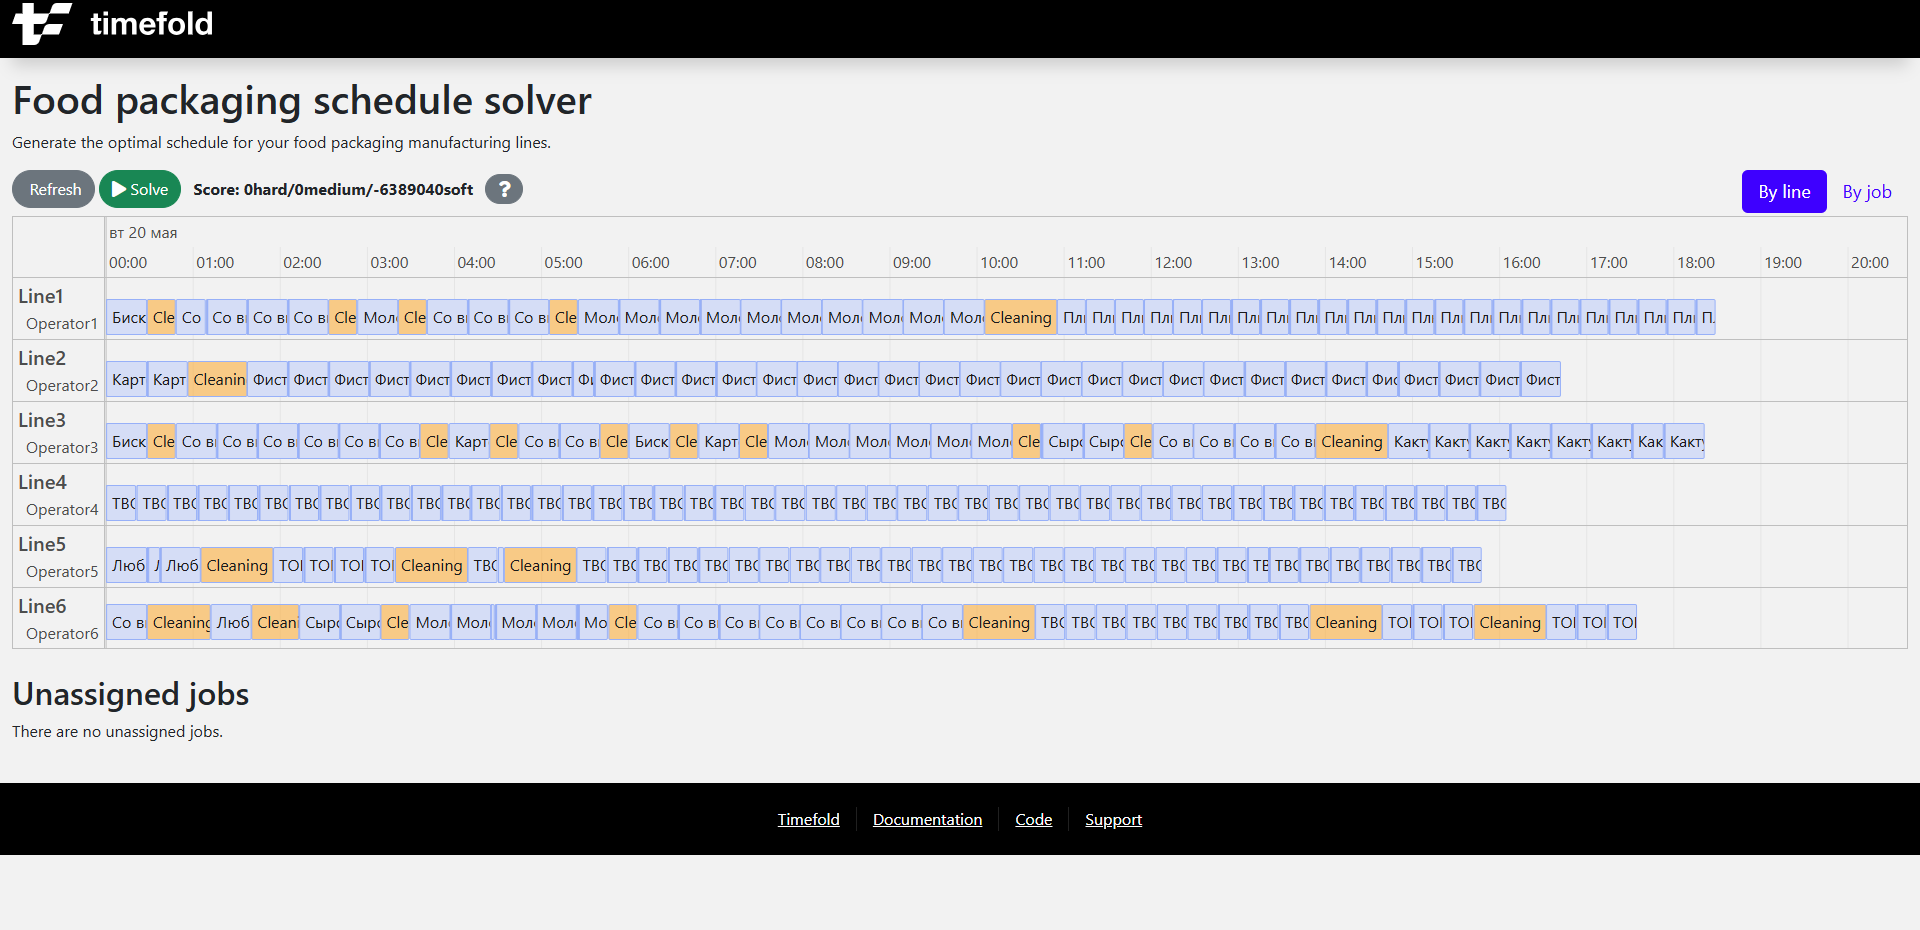
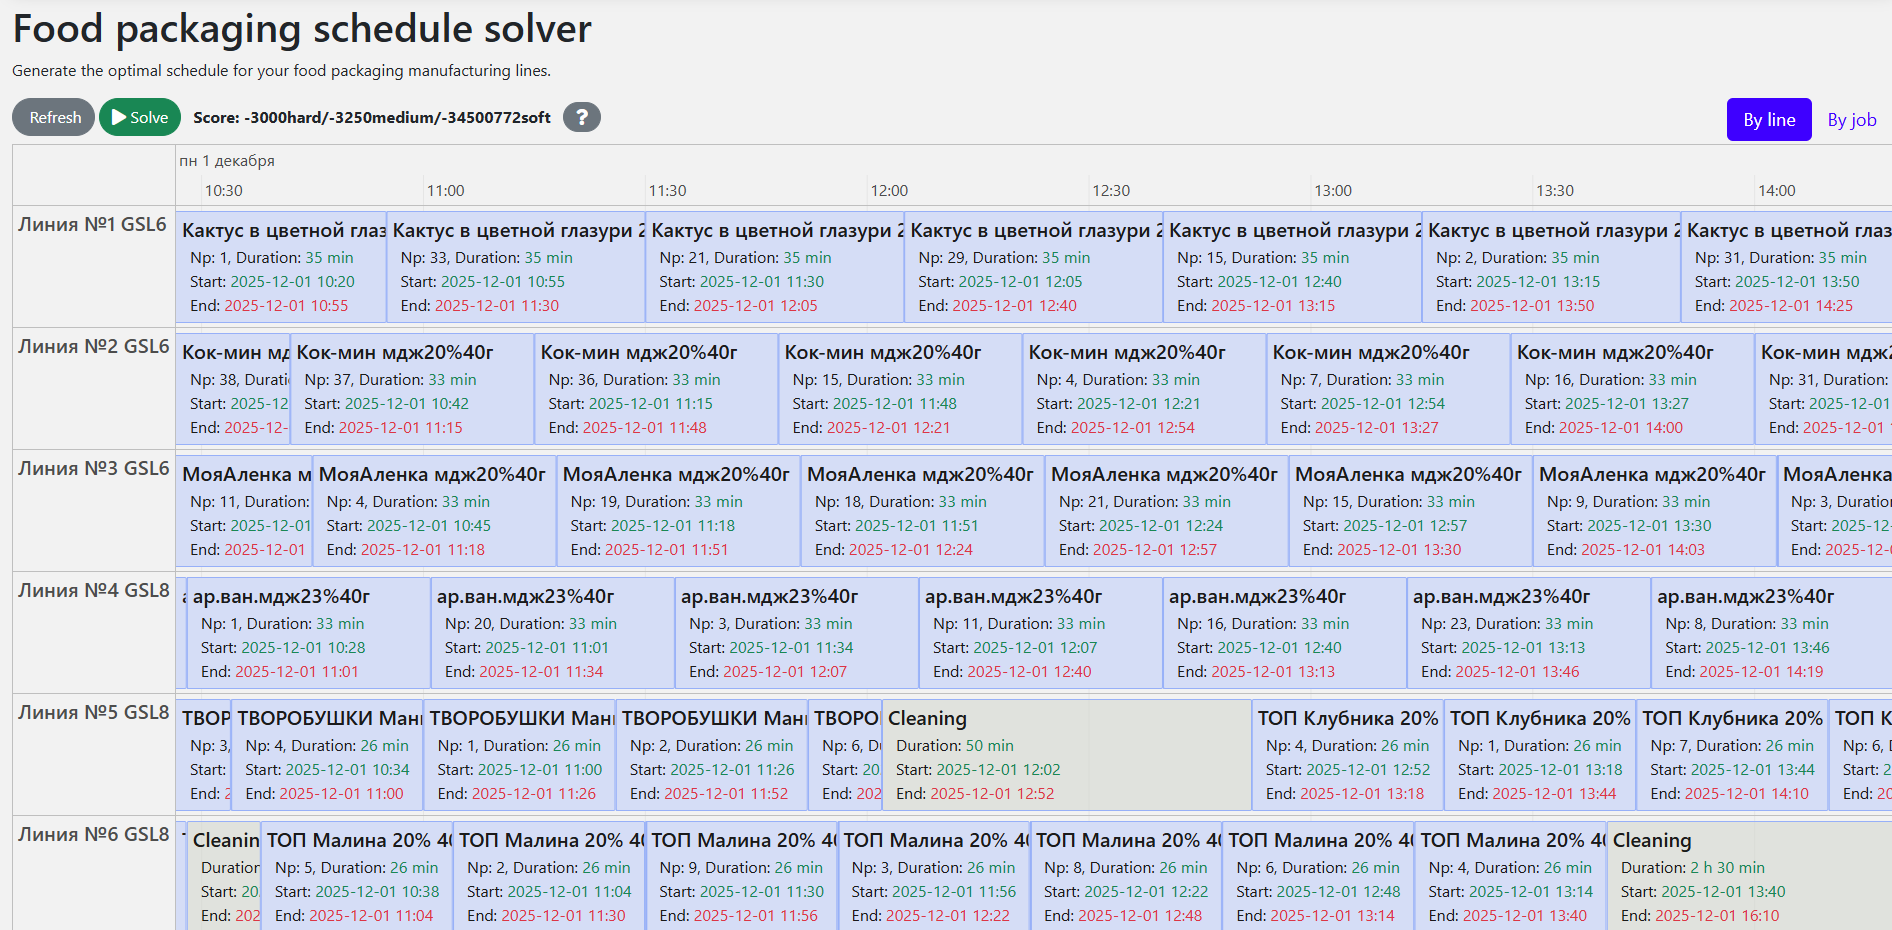
Updated info about project building

diff --git a/README.md b/README.md
@@ -1,0 +1,166 @@
+# Food Packaging (Java, Quarkus, Maven)
+
+Schedule food packaging orders to manufacturing lines, to minimize downtime and fulfill all orders in time.
+
+![Food packaging screenshot](./food-packaging-screenshot.png)
+
+- [Run the application](#run-the-application)
+- [Configuration](#configuration)
+- [REST API](#rest-api)
+- [Run the packaged application](#run-the-packaged-application)
+- [Run the application in a container](#run-the-application-in-a-container)
+- [Run it native](#run-it-native)
+
+## Prerequisites
+
+Install Java **21** and Maven, for example with [Sdkman](https://sdkman.io):
+
+```shell
+sdk install java 21.0.0-tem
+sdk install maven
+```
+
+## Run the application
+
+Clone the repo and navigate to this directory:
+
+```shell
+git clone git@github.com:NogameNo-life/food-packaging-quarkus.git
+cd food-packaging-quarkus
+```
+
+Start the application with Maven:
+
+```shell
+mvn quarkus:dev
+```
+
+Visit `http://localhost:8080` in your browser.
+
+Click on the **Solve** button.
+
+Then try _live coding_:
+
+- Make some changes in the source code.
+- Refresh your browser (F5).
+
+Notice that those changes are immediately in effect.
+
+## Configuration
+
+This app connects to **MS SQL Server**. Quarkus devservices are disabled, so you must provide DB connection settings via environment variables (see `src/main/resources/application.properties`).
+
+### Profiles
+
+- **local**: `-Dquarkus.profile=local` (default port 8080)
+- **dev**: `-Dquarkus.profile=dev` (default port 8083)
+- **prod/brzprod/baranprod**: default port 8081 (see properties)
+
+### Required environment variables
+
+At minimum you need:
+
+- **DB_USERNAME**: DB login
+- **DB_PASSWORD**: DB password
+- **DB_URL_LOCAL / DB_URL_DEV / DB_URL_PROD / ...**: used by code that reads `db.url`
+- **DB_JDBC_URL_LOCAL / DB_JDBC_URL_DEV / DB_JDBC_URL_PROD / ...**: JDBC URL for Quarkus datasource
+- **CORS_ORIGIN_DEV / CORS_ORIGIN_PROD / ...**: allowed origin(s) for browser clients (profile-specific)
+
+Example (local profile):
+
+```shell
+export DB_USERNAME="..."
+export DB_PASSWORD="..."
+export DB_URL_LOCAL="..."
+export DB_JDBC_URL_LOCAL="jdbc:sqlserver://HOST:1433;databaseName=DB;encrypt=true;trustServerCertificate=true"
+
+mvn quarkus:dev -Dquarkus.profile=local
+```
+
+## REST API
+
+Base path: `/schedule`
+
+### Session
+
+Most endpoints use the request header **`X-Session-Id`** to isolate schedules per user/session.
+
+### Common endpoints
+
+- **GET `/schedule`**: get current schedule for session
+- **POST `/schedule/init`**: build/load schedule for a start date (request: `LoadRequest`)
+- **POST `/schedule/solve`**: start solver
+- **POST `/schedule/stopSolving`**: stop solver
+- **POST `/schedule/maintenance`**: add/update/remove maintenance job (request: `MaintenanceRequest`)
+- **POST `/schedule/moveJobs`**: move jobs (request: `MoveJobsRequest`)
+- **POST `/schedule/pin`**: pin/unpin jobs (request: `PinRequest`)
+- **POST `/schedule/save`**: persist the current plan to DB
+
+Example (maintenance add):
+
+```shell
+curl -X POST "http://localhost:8080/schedule/maintenance" \
+  -H "Content-Type: application/json" \
+  -H "X-Session-Id: demo" \
+  -d '{"lineId":"170610000000","name":"Maintenance","insertIndex":0,"durationMinutes":30}'
+```
+
+## Run the packaged application
+
+When you're done iterating in `quarkus:dev` mode, package the application to run as a conventional jar file.
+
+Compile it with Maven:
+
+```shell
+mvn package
+```
+
+Run it:
+
+```shell
+java -jar ./target/quarkus-app/quarkus-run.jar
+```
+
+To run it on port 8081 instead, add `-Dquarkus.http.port=8081`.
+
+Visit `http://localhost:8080` in your browser and click on the **Solve** button.
+
+## Run the application in a container
+
+Build a container image:
+
+```shell
+mvn package -Dcontainer
+```
+
+Run a container:
+
+```shell
+docker run -p 8080:8080 --rm $USER/food-packaging:1.0-SNAPSHOT
+```
+
+## Run it native
+
+To increase startup performance for serverless deployments, build the application as a native executable:
+
+- Install GraalVM and install the `native-image` tool:  
+  https://quarkus.io/guides/building-native-image#configuring-graalvm
+
+Compile it natively (this takes a few minutes):
+
+```shell
+mvn package -Dnative -DskipTests
+```
+
+Run the native executable:
+
+```shell
+./target/*-runner
+```
+
+Visit `http://localhost:8080` in your browser and click on the **Solve** button.
+
+## More information
+
+Visit https://timefold.ai.
+
